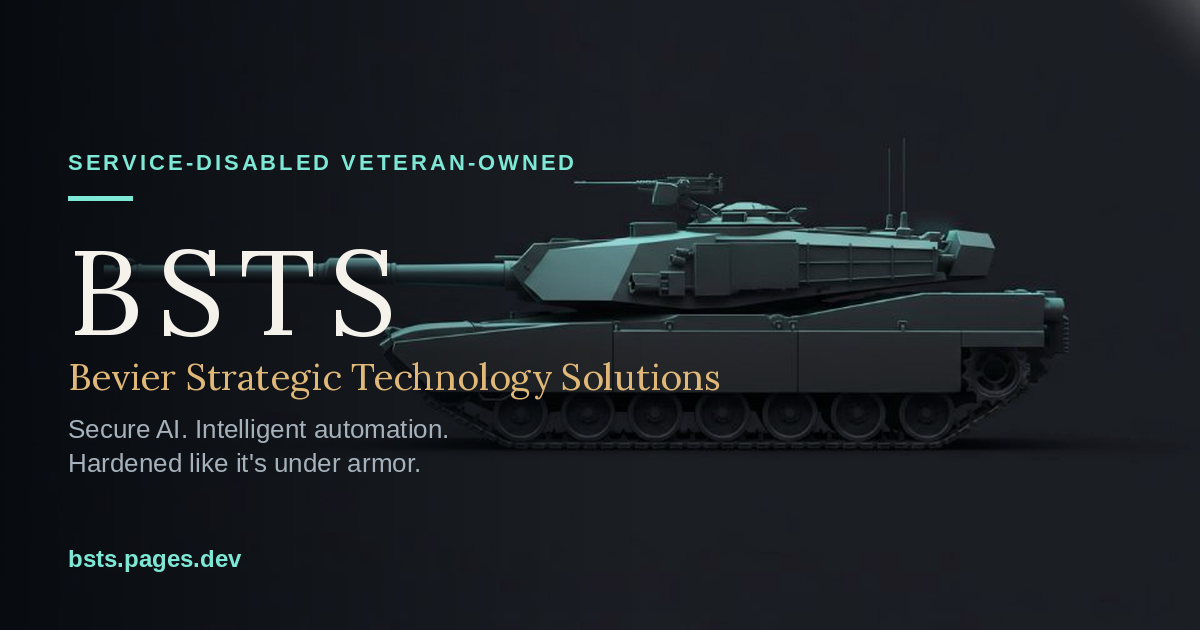
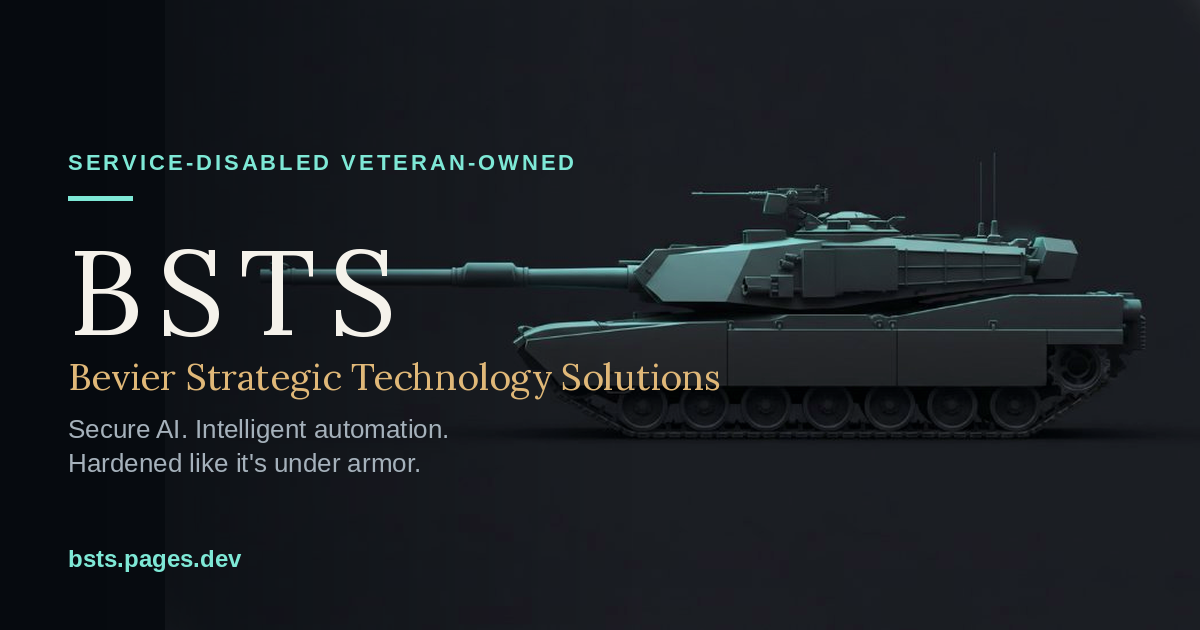
Assessment UX: lead with the flow, snap each question to top; shift tank on share card
- Contact page now leads with the assessment (removed the tall hero that
  pushed the start card below the fold)
- Each question and the report scroll-snap to just below the header, so it
  always reads as one question at a time (fixes 'opened midway down')
- Share card: tank shifted right so the text no longer covers the hull

Claude-Session: https://claude.ai/code/session_01Tanrng3qAbf8d49TYFnHYg

diff --git a/src/app/(marketing)/contact/page.tsx b/src/app/(marketing)/contact/page.tsx
@@ -1,7 +1,5 @@
 import type { Metadata } from "next";
 import { Atmosphere } from "@/components/ui/Atmosphere";
-import { SectionHeading } from "@/components/ui/SectionHeading";
-import { Reveal } from "@/components/motion/Reveal";
 import { DiagnosticFlow } from "@/components/diagnostic/DiagnosticFlow";
 
 export const metadata: Metadata = {
@@ -12,23 +10,11 @@ export const metadata: Metadata = {
 
 export default function ContactPage() {
   return (
-    <>
-      <section className="relative isolate overflow-hidden">
-        <Atmosphere variant="quiet" />
-        <div className="relative mx-auto max-w-6xl px-6 pt-12 pb-8">
-          <SectionHeading
-            eyebrow="AI & Automation Assessment"
-            title="Where could AI and automation help your business?"
-            lede="A few plain questions about how your business runs today. At the end you'll see roughly how many hours a week you could win back, exactly which tools and automations would help, and where to start. Everything runs in your browser; nothing is sent until you choose to."
-          />
-        </div>
-      </section>
-
-      <div className="mx-auto max-w-3xl px-6 pb-20">
-        <Reveal>
-          <DiagnosticFlow />
-        </Reveal>
+    <section className="relative isolate overflow-hidden">
+      <Atmosphere variant="quiet" />
+      <div className="relative mx-auto max-w-3xl px-6 pt-24 pb-20 sm:pt-28">
+        <DiagnosticFlow />
       </div>
-    </>
+    </section>
   );
 }

diff --git a/src/components/diagnostic/DiagnosticFlow.tsx b/src/components/diagnostic/DiagnosticFlow.tsx
@@ -1,6 +1,6 @@
 "use client";
 
-import { useState } from "react";
+import { useEffect, useRef, useState } from "react";
 import { AnimatePresence, motion } from "framer-motion";
 import { ArrowLeft, ArrowRight, Check, ChevronDown, Clock, Sparkles } from "lucide-react";
 import type { Answers } from "@/lib/diagnostic/types";
@@ -13,6 +13,15 @@ export function DiagnosticFlow() {
   const [answers, setAnswers] = useState<Answers>({});
   const [stepId, setStepId] = useState<string | null>(null);
   const [done, setDone] = useState(false);
+  const topRef = useRef<HTMLDivElement>(null);
+
+  // Keep the current question (or the report) snapped to the top of the
+  // viewport, just below the fixed header — so it always feels like one
+  // question at a time, especially on phones.
+  useEffect(() => {
+    if (!started) return;
+    topRef.current?.scrollIntoView({ behavior: "smooth", block: "start" });
+  }, [stepId, done, started]);
 
   const applicable = applicableQuestions(answers);
   const total = applicable.length;
@@ -134,7 +143,11 @@ export function DiagnosticFlow() {
 
   // ── Report ─────────────────────────────────────────────────────
   if (done) {
-    return <DiagnosticReport diagnosis={diagnose(answers)} answers={answers} onRestart={restart} />;
+    return (
+      <div ref={topRef} className="scroll-mt-24">
+        <DiagnosticReport diagnosis={diagnose(answers)} answers={answers} onRestart={restart} />
+      </div>
+    );
   }
 
   // ── Question ───────────────────────────────────────────────────
@@ -150,7 +163,7 @@ export function DiagnosticFlow() {
         : singleValue.length > 0;
 
   return (
-    <div className="surface rounded-[2rem] p-6 sm:p-9">
+    <div ref={topRef} className="surface scroll-mt-24 rounded-[2rem] p-6 sm:p-9">
       {/* Progress */}
       <div className="flex items-center justify-between gap-4">
         <button